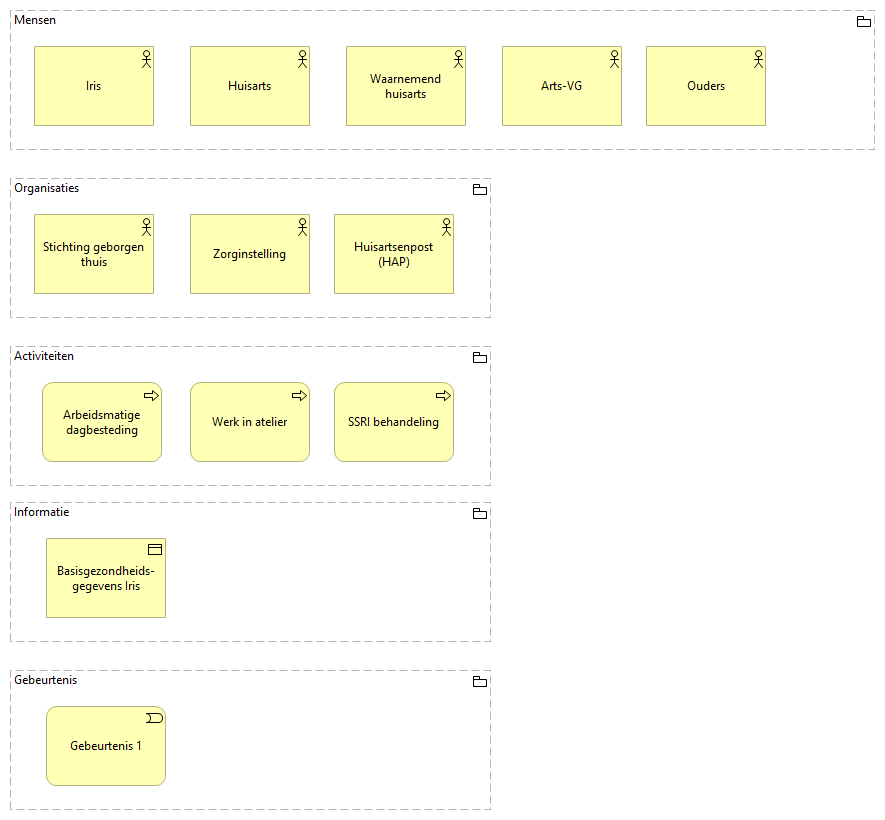
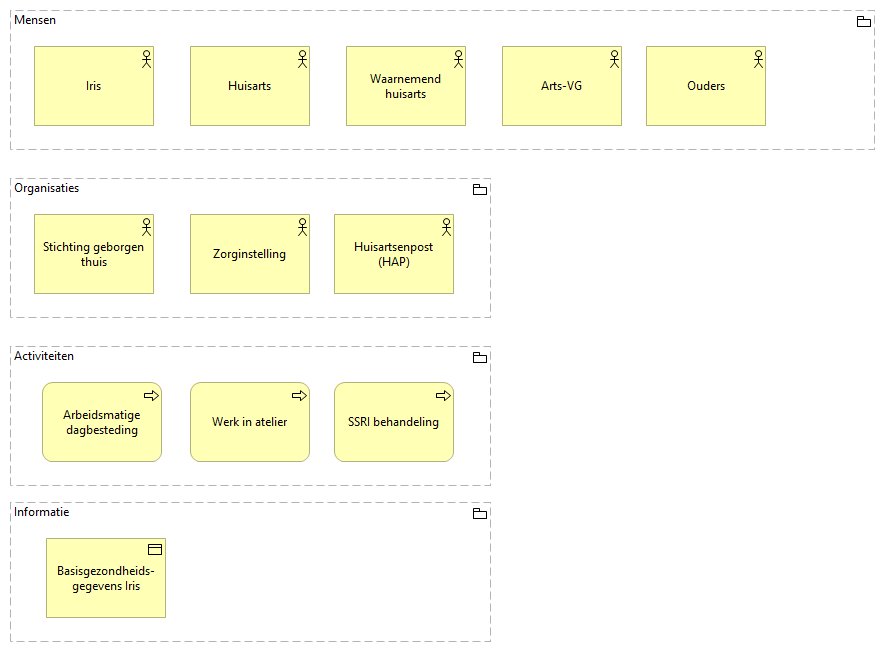
update

diff --git a/docs/id-2f3ee0d5909c43e88c4961648cbd8317/views/id-b79e21a463e04c7180863cb5a9bf01c2.html b/docs/id-2f3ee0d5909c43e88c4961648cbd8317/views/id-b79e21a463e04c7180863cb5a9bf01c2.html
@@ -33,9 +33,6 @@
 		    <!-- If this is a digram model (has children and no bounds) show the image -->
 			   <img class="diagram" src="../images/id-b79e21a463e04c7180863cb5a9bf01c2.png" alt="Archtergrond" usemap="#id-b79e21a463e04c7180863cb5a9bf01c2map"/>
 			   <map name="id-b79e21a463e04c7180863cb5a9bf01c2map">
-				  				<area shape="rect" coords="46,706,166,786" href="../elements/id-895cd537c9c042c6954c58292c0225f0.html"  target="element">
-
-				  		<area shape="rect" coords="10,670,491,810" href="../elements/id-8680ed281ab64eaab1ba8e119bc25e54.html"  target="element">
 				  				<area shape="rect" coords="46,538,166,618" href="../elements/id-b2bb2c60e1534ab394d5e414a8ba0f75.html"  target="element">
 
 				  		<area shape="rect" coords="10,502,491,642" href="../elements/id-0dd942d0a5854e8a8be8f6493e435028.html"  target="element">
@@ -227,19 +224,6 @@
 													</tr>
 
 											
-											<tr>
-											    <td> <a href="../elements/id-8680ed281ab64eaab1ba8e119bc25e54.html" target="element"> Gebeurtenis </a> </td>
-											    <td> <a href="../elements/id-8680ed281ab64eaab1ba8e119bc25e54.html" target="element" class="i18n-elementtype-Grouping">
-											    </a> </td>
-											</tr>
-
-													<tr>
-													    <td> <a href="../elements/id-895cd537c9c042c6954c58292c0225f0.html" target="element"> Gebeurtenis 1 </a> </td>
-													    <td> <a href="../elements/id-895cd537c9c042c6954c58292c0225f0.html" target="element" class="i18n-elementtype-BusinessEvent">
-													    </a> </td>
-													</tr>
-
-											
 
 								</tbody>
 							</table>
@@ -344,15 +328,6 @@
 																		</a> </td>
 																		<td> <a href="../elements/id-0dd942d0a5854e8a8be8f6493e435028.html" target="element"> Informatie </a> </td>
 																		<td> <a href="../elements/id-b2bb2c60e1534ab394d5e414a8ba0f75.html" target="element"> Basisgezondheidsgegevens Iris </a> </td>
-																	</tr>
-
-											
-																	<tr>
-																		<td> <a href="../elements/id-70e63a1011fa4f0d8d9b78ab72d7de17.html" target="element">  </a> </td>
-																		<td> <a href="../elements/id-70e63a1011fa4f0d8d9b78ab72d7de17.html" target="element" class="i18n-elementtype-AggregationRelationship">
-																		</a> </td>
-																		<td> <a href="../elements/id-8680ed281ab64eaab1ba8e119bc25e54.html" target="element"> Gebeurtenis </a> </td>
-																		<td> <a href="../elements/id-895cd537c9c042c6954c58292c0225f0.html" target="element"> Gebeurtenis 1 </a> </td>
 																	</tr>
 
 											

diff --git a/docs/id-2f3ee0d5909c43e88c4961648cbd8317/elements/model.html b/docs/id-2f3ee0d5909c43e88c4961648cbd8317/elements/model.html
@@ -350,9 +350,6 @@ Bovendien kan het model een gedeeld referentiepunt voor alle betrokken stakehold
 												dataViewsContent.push({viewid:"id-b79e21a463e04c7180863cb5a9bf01c2", contentid:"id-0dd942d0a5854e8a8be8f6493e435028", contenttype:"Grouping"});
 														dataViewsContent.push({viewid:"id-b79e21a463e04c7180863cb5a9bf01c2", contentid:"id-b2bb2c60e1534ab394d5e414a8ba0f75", contenttype:"BusinessObject"});
 												
-												dataViewsContent.push({viewid:"id-b79e21a463e04c7180863cb5a9bf01c2", contentid:"id-8680ed281ab64eaab1ba8e119bc25e54", contenttype:"Grouping"});
-														dataViewsContent.push({viewid:"id-b79e21a463e04c7180863cb5a9bf01c2", contentid:"id-895cd537c9c042c6954c58292c0225f0", contenttype:"BusinessEvent"});
-												
 
 																		dataViewsContent.push({viewid:"id-b79e21a463e04c7180863cb5a9bf01c2", contentid:"id-009324ff37c746cf9501f2fb5a38125d", contenttype:"AggregationRelationship"});
 																		dataViewsContent.push({viewid:"id-b79e21a463e04c7180863cb5a9bf01c2", contentid:"id-5f6a594cfae241b687db76e44ff60309", contenttype:"AggregationRelationship"});
@@ -372,9 +369,6 @@ Bovendien kan het model een gedeeld referentiepunt voor alle betrokken stakehold
 
 												
 																		dataViewsContent.push({viewid:"id-b79e21a463e04c7180863cb5a9bf01c2", contentid:"id-6d5edc021f774b5684006bed4e277ee5", contenttype:"AggregationRelationship"});
-
-												
-																		dataViewsContent.push({viewid:"id-b79e21a463e04c7180863cb5a9bf01c2", contentid:"id-70e63a1011fa4f0d8d9b78ab72d7de17", contenttype:"AggregationRelationship"});
 
 												
 

diff --git a/docs/id-2f3ee0d5909c43e88c4961648cbd8317/elements/id-895cd537c9c042c6954c58292c0225f0.html b/docs/id-2f3ee0d5909c43e88c4961648cbd8317/elements/id-895cd537c9c042c6954c58292c0225f0.html
@@ -77,9 +77,6 @@
 								<tr id="used-in-views-id-3315d063ad23400aba1987e91734aae5">
 																	<td><a href="../views/id-3315d063ad23400aba1987e91734aae5.html" target="view" title="Gebeurtenis en verloop - probleemstelling"> Gebeurtenis en verloop - probleemstelling </a></td>
 																	<td><span class="i18n-viewpoint-" /></td>
-																</tr><tr id="used-in-views-id-b79e21a463e04c7180863cb5a9bf01c2">
-																	<td><a href="../views/id-b79e21a463e04c7180863cb5a9bf01c2.html" target="view" title="Archtergrond"> Archtergrond </a></td>
-																	<td><span class="i18n-viewpoint-" /></td>
 																</tr><tr id="used-in-views-id-8bcea1780dd747df9e6e01ba1dff42f9">
 																	<td><a href="../views/id-8bcea1780dd747df9e6e01ba1dff42f9.html" target="view" title="Gebeurtenis en verloop"> Gebeurtenis en verloop </a></td>
 																	<td><span class="i18n-viewpoint-" /></td>

diff --git a/docs/id-2f3ee0d5909c43e88c4961648cbd8317/elements/id-70e63a1011fa4f0d8d9b78ab72d7de17.html b/docs/id-2f3ee0d5909c43e88c4961648cbd8317/elements/id-70e63a1011fa4f0d8d9b78ab72d7de17.html
@@ -40,7 +40,6 @@
                     <li role="presentation"><a href="#properties" aria-controls="properties" role="tab" data-toggle="tab" class="i18n-properties"></a></li>
 
                     <!-- Analysis -->
-                    	<li role="presentation"><a href="#analysis" aria-controls="analysis" role="tab" data-toggle="tab" class="i18n-analysis"></a></li>
 
 				</ul>
 
@@ -83,10 +82,6 @@
 								</tr>
 							</thead>
 							<tbody>
-								<tr id="used-in-views-id-b79e21a463e04c7180863cb5a9bf01c2">
-																	<td><a href="../views/id-b79e21a463e04c7180863cb5a9bf01c2.html" target="view" title="Archtergrond"> Archtergrond </a></td>
-																	<td><span class="i18n-viewpoint-" /></td>
-																</tr>
 							</tbody>
 						</table>
 						<table class="table table-striped table-hover table-condensed" id="model-relations">

diff --git a/docs/id-2f3ee0d5909c43e88c4961648cbd8317/elements/id-8680ed281ab64eaab1ba8e119bc25e54.html b/docs/id-2f3ee0d5909c43e88c4961648cbd8317/elements/id-8680ed281ab64eaab1ba8e119bc25e54.html
@@ -72,10 +72,6 @@
 								</tr>
 							</thead>
 							<tbody>
-								<tr id="used-in-views-id-b79e21a463e04c7180863cb5a9bf01c2">
-																	<td><a href="../views/id-b79e21a463e04c7180863cb5a9bf01c2.html" target="view" title="Archtergrond"> Archtergrond </a></td>
-																	<td><span class="i18n-viewpoint-" /></td>
-																</tr>
 							</tbody>
 						</table>
 						<table class="table table-striped table-hover table-condensed" id="model-relations">
